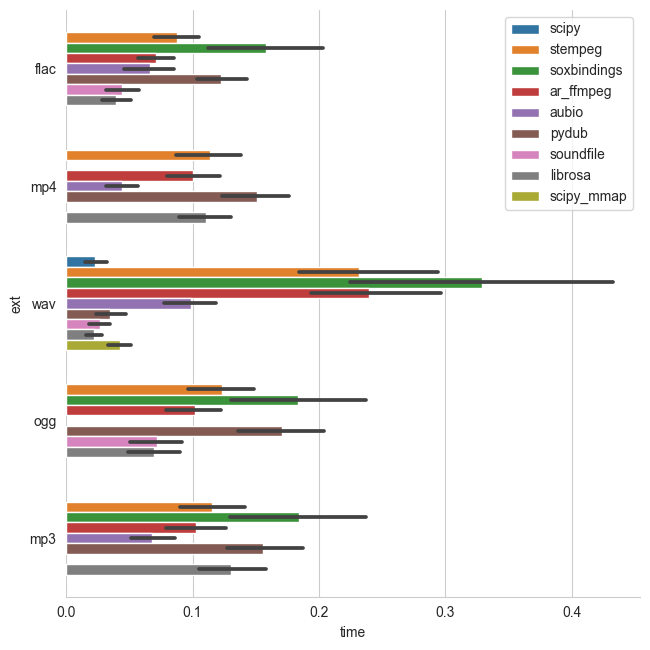
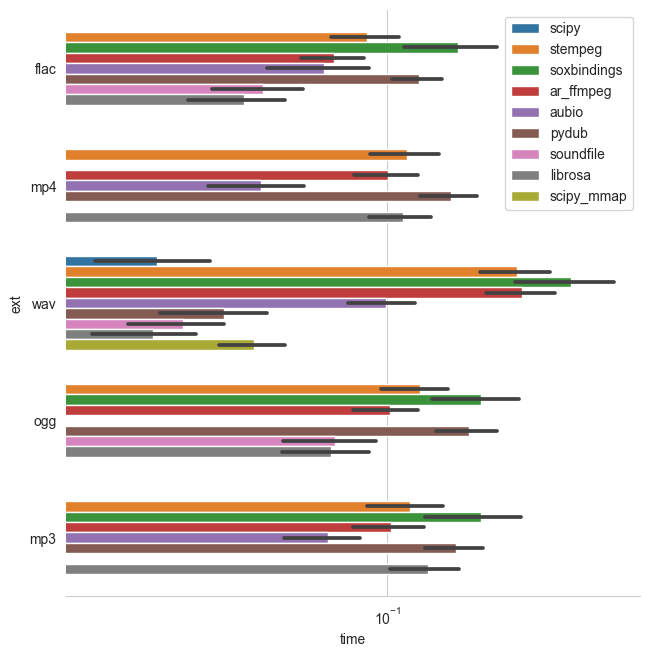
update results for metadata

diff --git a/benchmark_metadata.py b/benchmark_metadata.py
@@ -56,6 +56,7 @@ if __name__ == "__main__":
     # audio formats to be bench
     # libraries to be benchmarked
     libs = [
+        'stempeg',
         'torchaudio',
         'aubio',
         'soundfile',
@@ -68,30 +69,31 @@ if __name__ == "__main__":
         for root, dirs, fnames in sorted(os.walk('AUDIO')):
             for audio_dir in dirs:
                 # torchaudio segfaults for MP4
-                if lib == 'torchaudio' and args.ext == 'mp4':
+                if lib in ['torchaudio', 'sox'] and args.ext == 'mp4':
                     continue
-                try:
-                    duration = int(audio_dir)
-                    dataset = AudioFolder(
-                            os.path.join(root, audio_dir),
-                            lib='info_' + lib,
-                            extension=args.ext
-                    )
+                if lib == 'soundfile' and args.ext in ['mp3', 'mp4']:
+                    continue
 
-                    start = time.time()
+                duration = int(audio_dir)
+                dataset = AudioFolder(
+                        os.path.join(root, audio_dir),
+                        lib='info_' + lib,
+                        extension=args.ext
+                )
 
+                start = time.time()
+
+                for i in range(3):
                     for fp in dataset.audio_files:
                         info = dataset.loader_function(fp)
                         info['duration']
 
-                    end = time.time()
-                    store.append(
-                        ext=args.ext,
-                        lib=lib,
-                        duration=duration,
-                        time=float(end-start) / len(dataset),
-                    )
-                except:
-                    continue
+                end = time.time()
+                store.append(
+                    ext=args.ext,
+                    lib=lib,
+                    duration=duration,
+                    time=float(end-start) / (len(dataset) * 3),
+                )
 
     store.df.to_pickle('results/benchmark_metadata_{}.pickle'.format(args.ext))

diff --git a/loaders.py b/loaders.py
@@ -10,7 +10,8 @@ import numpy as np
 import tensorflow as tf
 import tensorflow_io as tfio
 import librosa
-import soxbindings as sox
+import soxbindings
+import sox
 import stempeg
 
 
@@ -102,7 +103,7 @@ def load_ar_ffmpeg(fp):
 
 
 def load_soxbindings(fp):
-    tfm = sox.Transformer()
+    tfm = soxbindings.Transformer()
     array_out = tfm.build_array(input_filepath=fp)
     return array_out
 
@@ -190,12 +191,19 @@ def info_pydub(fp):
 
 def info_torchaudio(fp):
     info = {}
-    f, _ = torchaudio.info(fp)
-    info['duration'] = f.length / f.rate
-    f, _ = torchaudio.info(fp)
-    info['samples'] = f.length
-    f, _ = torchaudio.info(fp)
-    info['channels'] = f.channels
-    f, _ = torchaudio.info(fp)
-    info['sampling_rate'] = f.rate
+    si = torchaudio.info(str(fp))
+    info["sampling_rate"] = si.sample_rate
+    info["samples"] = si.num_frames
+    info["channels"] = si.num_channels
+    info["duration"] = info["samples"] / info["sampling_rate"]
+    return info
+
+
+def info_stempeg(fp):
+    info = {}
+    si = stempeg.Info(fp)
+    info["sampling_rate"] = si.sample_rate(0)
+    info["samples"] = si.samples(0)
+    info["channels"] = si.channels(0)
+    info["duration"] = si.duration(0)
     return info

diff --git a/plot.py b/plot.py
@@ -3,7 +3,7 @@ import seaborn as sns
 import matplotlib.pyplot as plt
 
 
-for package in ['np', 'pytorch', 'tf']:
+for package in ['np', 'pytorch', 'tf', 'metadata']:
     dfs = []
     for ext in ["wav", "mp3", "mp4", "ogg", "flac"]:
         try:
@@ -34,6 +34,7 @@ for package in ['np', 'pytorch', 'tf']:
         aspect=1,
         legend=False
     )
+    g.set(xscale="log")
     g.despine(left=True)
     plt.legend(loc='upper right')
     g.savefig("results/benchmark_%s.png" % package)

diff --git a/README.md b/README.md
@@ -6,32 +6,35 @@ This is relevant for machine learning models that today often process raw (time 
 
 ## Tested Libraries
 
-| Library                 | Version | Short-Name/Code       | Out Type          | Supported codecs  | Excerpts/Seeking |
-|-------------------------|---------|-----------------------|-------------------|-------------------| -----------------|
-| [scipy.io.wavfile](https://docs.scipy.org/doc/scipy-0.14.0/reference/generated/scipy.io.wavfile.read.html#scipy.io.wavfile.read) | 1.4.1 | [`scipy`](https://github.com/faroit/python_audio_loading_benchmark/blob/master/loaders.py#L55)       | Numpy      | PCM (only 16 bit)   | ❌        |
-| [scipy.io.wavfile memmap](https://docs.scipy.org/doc/scipy-0.14.0/reference/generated/scipy.io.wavfile.read.html#scipy.io.wavfile.read) | 1.4.1 | [`scipy_mmap`](https://github.com/faroit/python_audio_loading_benchmark/blob/master/loaders.py#L61)  | Numpy      | PCM (only 16 bit)   | ✅        |
-| [soundfile](https://pysoundfile.readthedocs.io/en/0.9.0/) ([libsndfile](http://www.mega-nerd.com/libsndfile/)) | 0.9.0 | [`soundfile`](https://github.com/faroit/python_audio_loading_benchmark/blob/master/loaders.py#L50)   | Numpy | PCM, Ogg, Flac | ✅             |
-| [pydub](https://github.com/jiaaro/pydub) | 0.23.1 | [`pydub`](https://github.com/faroit/python_audio_loading_benchmark/blob/master/loaders.py#L97) | Python Array |  PCM, MP3, OGG or other FFMPEG/libav supported codec | ❌ |
-| [aubio](https://github.com/aubio/aubio) | 0.4.9 | [`aubio`](https://github.com/faroit/python_audio_loading_benchmark/blob/master/loaders.py#L32) | Numpy Array | PCM, MP3, OGG or other avconv supported code |  ✅ |
-| [audioread](https://github.com/beetbox/audioread) ([gstreamer](https://gstreamer.freedesktop.org/)) | 2.1.8 | [`ar_gstreamer`](https://github.com/faroit/python_audio_loading_benchmark/blob/master/loaders.py#L67) | Numpy Array | all of FFMPEG | ❌ |
-| [audioread](https://github.com/beetbox/audioread) ([FFMPEG](https://www.ffmpeg.org/)) | 2.1.8 | [`ar_ffmpeg`](https://github.com/faroit/python_audio_loading_benchmark/blob/master/loaders.py#L87) | Numpy Array | all of FFMPEG | ❌ |
-| [librosa](https://librosa.github.io/)  | 0.7.2 | [`librosa`](https://github.com/faroit/python_audio_loading_benchmark/blob/master/loaders.py#L104) | Numpy Array | relies on audioread |  ✅ |
-| [tensorflow `tf.io.audio.decode_wav`](https://www.tensorflow.org/api_docs/python/tf/contrib/ffmpeg/decode_audio) | 2.1.0 | [`tf_decode_wav`](https://github.com/faroit/python_audio_loading_benchmark/blob/master/loaders.py#L22) | Tensorflow Tensor | PCM (only 16 bit) |  ❌ |
-| [tensorflow-io `from_audio`](https://www.tensorflow.org/io/api_docs/python/tfio/v0/IOTensor#from_audio) | 0.11.0 | [`tfio_fromaudio`](https://github.com/faroit/python_audio_loading_benchmark/blob/master/loaders.py#L22) | Tensorflow Tensor | PCM, Ogg, Flac |  ✅ |
-| [torchaudio](https://github.com/pytorch/audio) (sox) | 0.4.0 | [`torchaudio`](https://github.com/faroit/python_audio_loading_benchmark/blob/master/loaders.py#L45) | PyTorch Tensor | all codecs supported by Sox |  ✅ |
-| [torchaudio](https://github.com/pytorch/audio) (soundfile) | 0.4.0| [`torchaudio`](https://github.com/faroit/python_audio_loading_benchmark/blob/master/loaders.py#L45) | PyTorch Tensor | all codecs supported by Sox |  ✅ |
+| Library                                                                                                                                 | Version | Short-Name/Code  | Out Type          | Supported codecs                                    | Excerpts/Seeking |
+| --------------------------------------------------------------------------------------------------------------------------------------- | ------- | ---------------- | ----------------- | --------------------------------------------------- | ---------------- |
+| [scipy.io.wavfile](https://docs.scipy.org/doc/scipy-0.14.0/reference/generated/scipy.io.wavfile.read.html#scipy.io.wavfile.read)        | 1.7.1   | `scipy`          | Numpy             | PCM (only 16 bit)                                   | ❌               |
+| [scipy.io.wavfile memmap](https://docs.scipy.org/doc/scipy-0.14.0/reference/generated/scipy.io.wavfile.read.html#scipy.io.wavfile.read) | 1.7.1   | `scipy_mmap`     | Numpy             | PCM (only 16 bit)                                   | ✅               |
+| [soundfile](https://pysoundfile.readthedocs.io/en/latest/) ([libsndfile](http://www.mega-nerd.com/libsndfile/))                         | 0.10.0  | `soundfile`      | Numpy             | PCM, Ogg, Flac                                      | ✅               |
+| [pydub](https://github.com/jiaaro/pydub)                                                                                                | 0.25.1  | `pydub`          | Python Array      | PCM, MP3, OGG or other FFMPEG/libav supported codec | ❌               |
+| [aubio](https://github.com/aubio/aubio)                                                                                                 | 0.4.9   | `aubio`          | Numpy Array       | PCM, MP3, OGG or other avconv supported code        | ✅               |
+| [audioread](https://github.com/beetbox/audioread) ([FFMPEG](https://www.ffmpeg.org/))                                                   | 2.1.9   | `ar_ffmpeg`      | Numpy Array       | all of FFMPEG                                       | ❌               |
+| [librosa](https://librosa.github.io/)                                                                                                   | 0.8.1   | `librosa`        | Numpy Array       | relies on audioread                                 | ✅               |
+| [tensorflow `tf.io.audio.decode_wav`](https://www.tensorflow.org/api_docs/python/tf/contrib/ffmpeg/decode_audio)                        | 2.6.0   | `tf_decode_wav`  | Tensorflow Tensor | PCM (only 16 bit)                                   | ❌               |
+| [tensorflow-io `from_audio`](https://www.tensorflow.org/io/api_docs/python/tfio/v0/IOTensor#from_audio)                                 | 0.20.0  | `tfio_fromaudio` | Tensorflow Tensor | PCM, Ogg, Flac                                      | ✅               |
+| [torchaudio](https://github.com/pytorch/audio) (sox_io)                                                                                 | 0.9.0   | `torchaudio`     | PyTorch Tensor    | all codecs supported by Sox                         | ✅               |
+| [torchaudio](https://github.com/pytorch/audio) (soundfile)                                                                              | 0.9.0   | `torchaudio`     | PyTorch Tensor    | all codecs supported by Soundfile                   | ✅               |
+| [soxbindings](https://github.com/pseeth/soxbindings)                                                                                    | 0.9.0   | `soxbindings`    | Numpy Tensor      | all codecs supported by Soundfile                   | ✅               |
+| [stempeg](https://github.com/faroit/stempeg)                                                                                            | 0.2.3   | `stempeg`        | Numpy Tensor      | all codecs supported by FFMPEG                      | ✅               |
+
 ### Not included
 
-* __[audioread (coreaudio)](https://github.com/beetbox/audioread/blob/master/audioread/macca.py)__: only available on macOS.
-* __[madmom](https://github.com/CPJKU/madmom)__: same ffmpeg interface as `ar_ffmpeg`.
-* __[pymad](https://github.com/jaqx0r/pymad)__: only support for MP3, also very slow.
-* __[python builtin `wave`](https://docs.python.org/3.7/library/wave.html)__: TODO (open for PR)
+- **[audioread (coreaudio)](https://github.com/beetbox/audioread/blob/master/audioread/macca.py)**: only available on macOS.
+- **[audioread (gstreamer)](https://github.com/beetbox/audioread/blob/master/audioread/gst.py)**: too difficult to install.
+- **[madmom](https://github.com/CPJKU/madmom)**: same ffmpeg interface as `ar_ffmpeg`.
+- **[pymad](https://github.com/jaqx0r/pymad)**: only support for MP3, also very slow.
+- **[python builtin `wave`](https://docs.python.org/3.7/library/wave.html)**: too limited cocdec support.
 
 ## Results
 
-The benchmark loads a number of (single channel) audio files of different length (between 1 and 151 seconds) and measures the time until the audio is converted to a tensor. Depending on the target tensor type (either `numpy`, `pytorch` or `tensorflow`) a different number of libraries were compared. E.g. when the output type is `numpy` and the target tensor type is `tensorflow`, the loading time included the cast operation to the target tensor. Furthermore, multiprocessing was disabled for data loaders that support them.
+The benchmark loads a number of (single channel) audio files of different length (between 1 and 151 seconds) and measures the time until the audio is converted to a tensor. Depending on the target tensor type (either `numpy`, `pytorch` or `tensorflow`) a different number of libraries were compared. E.g. when the output type is `numpy` and the target tensor type is `tensorflow`, the loading time included the cast operation to the target tensor. Furthermore, multiprocessing was disabled for data loaders. So especially for deep learning applications the loading speed doesn't necessarily reprent the batch loading speed.
 
-__All results shown below, depict loading time __in seconds__ for wav and mp3 files.__
+**All results shown below, depict loading time **in seconds\*\*.
 
 ### Load to Numpy Tensor
 
@@ -49,7 +52,7 @@ __All results shown below, depict loading time __in seconds__ for wav and mp3 fi
 
 In addition to loading the file, one might also be interested in extracting
 metadata. To benchmark this we asked for every file to provide metadata for
-*sampling rate*, *channels*, *samples*, and *duration*. All in consecutive
+_sampling rate_, _channels_, _samples_, and _duration_. All in consecutive
 calls, which means the file is not allowed to be opened once and extract all
 metadata together. Note, that we have excluded `pydub` from the benchmark
 results on metadata as it was significantly slower than the other tools.
@@ -60,8 +63,9 @@ results on metadata as it was significantly slower than the other tools.
 
 ### Generate sample data
 
-To test the loading speed, we generate different durations of random (noise) audio data and encode it either to __PCM 16bit WAV__, __MP3 CBR__, or __MP4__.
+To test the loading speed, we generate different durations of random (noise) audio data and encode it either to **PCM 16bit WAV**, **MP3 CBR**, or **MP4**.
 The data is generated by using a shell script. To generate the data in the folder `AUDIO`, run
+
 ```bash
 generate_audio.sh
 ```
@@ -69,9 +73,11 @@ generate_audio.sh
 ### Setting up using Docker
 
 Build the docker container using
+
 ```bash
 docker build -t audio_benchmark .
 ```
+
 It installs all the package requirements for all audio libraries.
 Afterwards, mount the data directory into the docker container and run `run.sh` inside the
 container, e.g.:
@@ -85,6 +91,7 @@ docker run -v /home/user/repos/python_audio_loading_benchmark/:/app \
 
 Create a virtual environment, install the necessary dependencies and run the
 benchmark with
+
 ```bash
 virtualenv --python=/usr/bin/python3 --no-site-packages _env
 source _env/bin/activate
@@ -95,13 +102,17 @@ pip install git+https://github.com/pytorch/audio.git
 ### Benchmarking
 
 Run the benchmark with
+
 ```bash
 bash run.sh
 ```
+
 and plot the result with
+
 ```bash
 python plot.py
 ```
+
 This generates PNG files in the `results` folder.
 The data is generated by using a shell script. To generate the data in the folder `AUDIO`, run `generate_audio.sh`.
 
